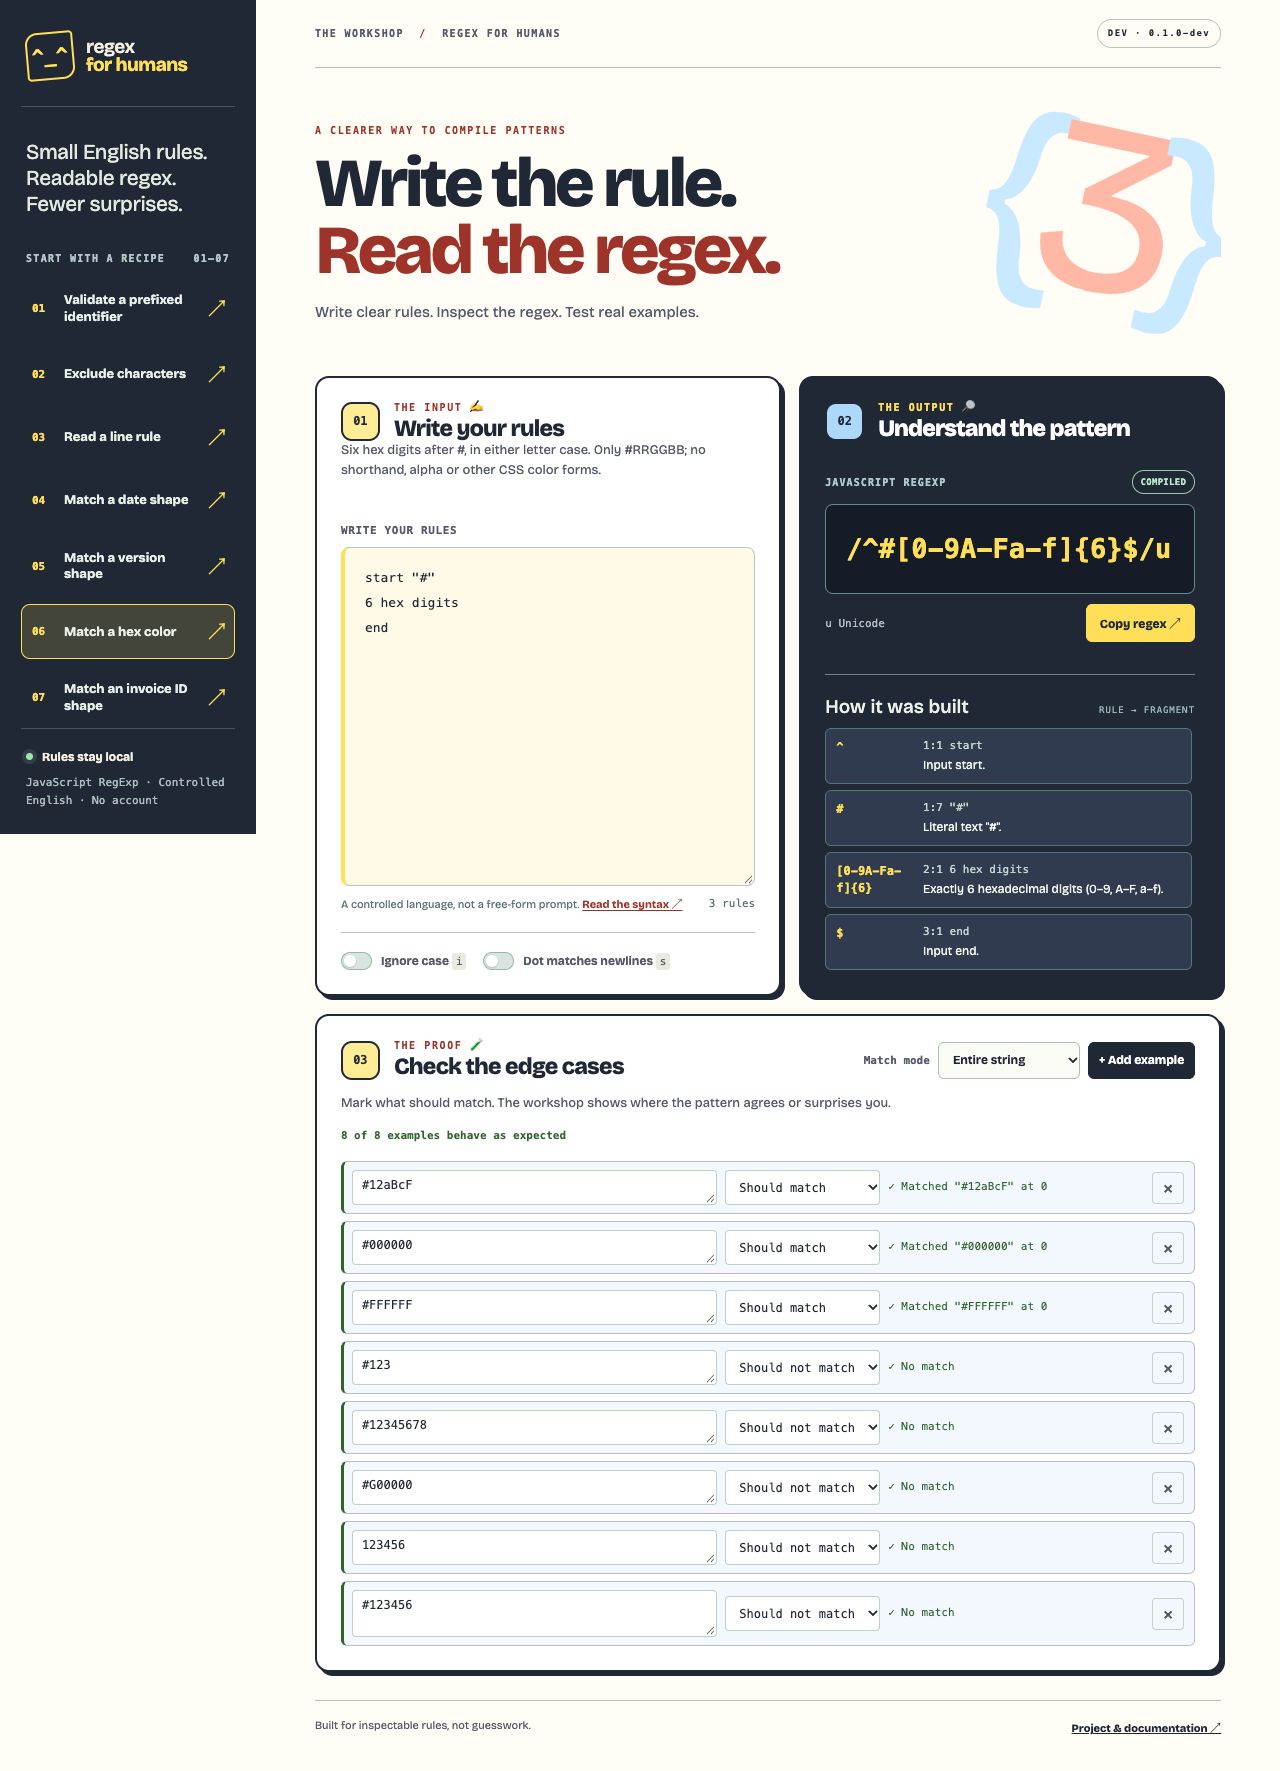
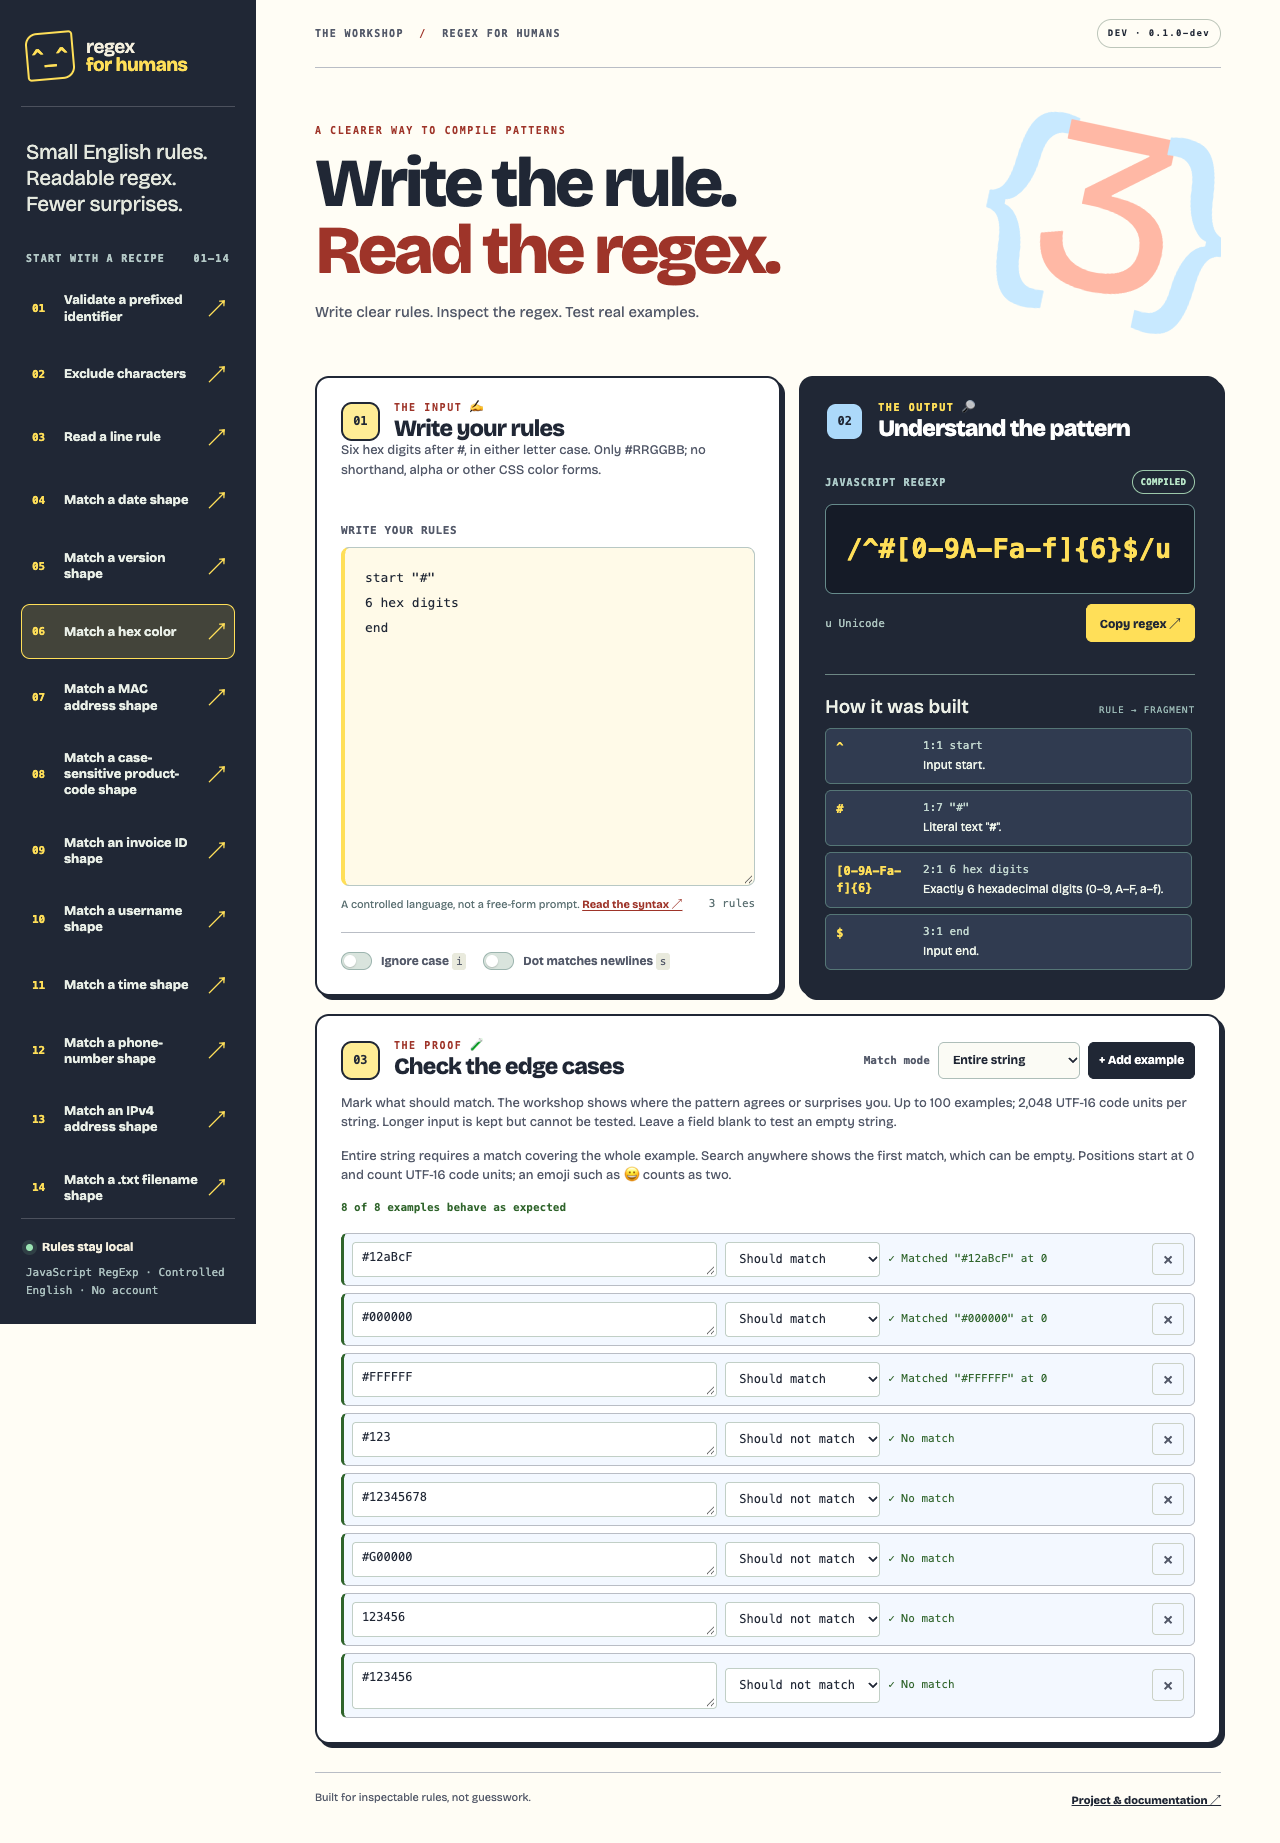
docs: refresh workshop screenshots

diff --git a/site/index.html b/site/index.html
@@ -85,7 +85,7 @@ end</code></pre></div>
     </section>
     <section class="workshop-section section" aria-labelledby="workshop-title">
       <div class="workshop-copy"><p class="eyebrow">YOUR NEW REGEX SANDBOX</p><h2 id="workshop-title">Poke it.<br>Break it.<br><span class="workshop-underline">Understand it.</span></h2><p>Live output, explanations, helpful error positions, and examples you can edit. All in your browser.</p><a class="button primary" href="./workshop/">Take it for a spin <span aria-hidden="true">↗</span></a><p class="local-note"><span aria-hidden="true">🔒</span> Rules and examples stay in your browser.</p></div>
-      <a class="workshop-preview" href="./workshop/" aria-label="Open the interactive workshop"><div class="preview-bar" aria-hidden="true"><span>● ● ●</span><span>THE WORKSHOP / A REAL SCREENSHOT</span></div><img src="./assets/workshop-preview.png?v=86a0caaaef46" alt="Regex For Humans workshop with editable rules, a generated regex, explanations, and passing examples." loading="lazy" width="1280" height="1519"></a>
+      <a class="workshop-preview" href="./workshop/" aria-label="Open the interactive workshop"><div class="preview-bar" aria-hidden="true"><span>● ● ●</span><span>THE WORKSHOP / A REAL SCREENSHOT</span></div><img src="./assets/workshop-preview.png?v=34dd6038942f" alt="Regex For Humans workshop with fourteen editable recipes, generated regex, explanations, and passing examples." loading="lazy" width="1280" height="1591"></a>
     </section>
     <section class="language-section section" id="language" aria-labelledby="language-title">
       <div class="language-intro"><p class="eyebrow">THE POCKET CHEAT SHEET</p><h2 id="language-title">A few words.<br>A lot less squinting. <span aria-hidden="true">👀</span></h2><p>A small, fixed English vocabulary. Every supported instruction has an exact meaning.</p><a class="text-link" href="./workshop/web/language.html">Read the full syntax guide ↗</a><p class="scope-note">JavaScript RegExp only. Free-form English, raw regex, groups, alternation, and lookaround aren't part of this language.</p></div>

diff --git a/test/site/landing.spec.js b/test/site/landing.spec.js
@@ -8,6 +8,15 @@ const stylesheetVersion = createHash("sha256")
   .update(readFileSync(new URL("../../site/styles.css", import.meta.url)))
   .digest("hex")
   .slice(0, 12);
+const workshopPreview = readFileSync(
+  new URL("../../site/assets/workshop-preview.png", import.meta.url),
+);
+const workshopPreviewVersion = createHash("sha256")
+  .update(workshopPreview)
+  .digest("hex")
+  .slice(0, 12);
+const workshopPreviewWidth = workshopPreview.readUInt32BE(16);
+const workshopPreviewHeight = workshopPreview.readUInt32BE(20);
 
 test("homepage requests its current stylesheet and bypasses an obsolete cached style", async ({
   page,
@@ -78,6 +87,24 @@ test("homepage exposes a working, dimensioned social preview", async ({ page }) 
   const bytes = await imageResponse.body();
   expect(bytes.readUInt32BE(16)).toBe(1200);
   expect(bytes.readUInt32BE(20)).toBe(630);
+});
+
+test("homepage uses the current, dimensioned workshop screenshot", async ({ page }) => {
+  await page.goto("/");
+  const image = page.locator(".workshop-preview img");
+  await expect(image).toHaveAttribute(
+    "src",
+    `./assets/workshop-preview.png?v=${workshopPreviewVersion}`,
+  );
+  await expect(image).toHaveAttribute("width", String(workshopPreviewWidth));
+  await expect(image).toHaveAttribute("height", String(workshopPreviewHeight));
+  await image.scrollIntoViewIfNeeded();
+  await expect
+    .poll(() => image.evaluate((element) => element.naturalWidth))
+    .toBe(workshopPreviewWidth);
+  await expect
+    .poll(() => image.evaluate((element) => element.naturalHeight))
+    .toBe(workshopPreviewHeight);
 });
 
 test("workshop and syntax guide expose their own canonical social previews", async ({ page }) => {

diff --git a/media/screenshots/README.md b/media/screenshots/README.md
@@ -1,15 +1,15 @@
 # Screenshot evidence
 
-These are full-page Chrome captures of the local static workshop from this source tree on 30 September 2026, after `npm run verify` passed. Build fingerprint: `ddf21013587c`; visible version: `DEV · 0.1.0-dev`. The build was served from `site/` at `http://127.0.0.1:4191/workshop/`. No UI elements or results were composited or edited. The Bricolage Grotesque font is hosted locally and distributed with its SIL Open Font License in `web/assets/OFL.txt` and `site/assets/fonts/OFL.txt`.
+These are full-page Chrome captures of the local static workshop from this source tree on 1 October 2026. The full local verification passed at source commit `3347541`; the updated homepage and workshop passed all 54 desktop/mobile site tests after documentation updates. Build fingerprint: `c3ba95364088`; visible version: `DEV · 0.1.0-dev`. The build was served from `site/` at `http://127.0.0.1:4192/workshop/`. No UI elements or results were composited or edited. The Bricolage Grotesque font is hosted locally and distributed with its SIL Open Font License in `web/assets/OFL.txt` and `site/assets/fonts/OFL.txt`.
 
-The README desktop and mobile captures show the `hex-color` recipe: `start "#"`, `6 hex digits`, `end`. The generated regex is `/^#[0-9A-Fa-f]{6}$/u`; all eight example checks pass. The desktop sidebar lists seven recipes; the mobile recipe bar scrolls. Both captures show the selected recipe's limits beside its rules.
+The README desktop and mobile captures show the `hex-color` recipe: `start "#"`, `6 hex digits`, `end`. The generated regex is `/^#[0-9A-Fa-f]{6}$/u`; all eight example checks pass. The desktop sidebar lists all fourteen recipes; the mobile recipe bar scrolls. Both captures show the selected recipe's limits beside its rules.
 
 The homepage preview is a separate capture of `prefixed-identifier`, with `/^ABC\d{3}$/u` and all four example checks passing.
 
 | File | Viewport | Pixels | Size | SHA-256 |
 | --- | --- | --- | --- | --- |
[6 lines of base64/hex data omitted]
 
 These are local development captures, not stable-release or human usability evidence. Re-capture after the remaining UX reviews before closing roadmap task 4.2.

diff --git a/README.md b/README.md
@@ -55,12 +55,12 @@ A small, **fixed vocabulary**, with an exact meaning for every instruction. The 
 
 Your rules and examples stay in the browser. No account, AI interpretation, or application backend.
 
-[![Real desktop workshop showing editable rules, generated regex, explanations, and passing example checks](https://raw.githubusercontent.com/OthmaneBlial/Regex-For-Humans/main/media/screenshots/workshop-desktop-dev.png?v=0aa7a9f27078)](https://othmaneblial.github.io/Regex-For-Humans/workshop/)
+[![Real desktop workshop showing editable rules, generated regex, explanations, and passing example checks](https://raw.githubusercontent.com/OthmaneBlial/Regex-For-Humans/main/media/screenshots/workshop-desktop-dev.png?v=89bc7db9875a)](https://othmaneblial.github.io/Regex-For-Humans/workshop/)
 
 <details>
 <summary>📱 See the mobile workshop</summary>
 
-![Mobile view of the Regex For Humans workshop](https://raw.githubusercontent.com/OthmaneBlial/Regex-For-Humans/main/media/screenshots/workshop-mobile-dev.png?v=68866e560029)
+![Mobile view of the Regex For Humans workshop](https://raw.githubusercontent.com/OthmaneBlial/Regex-For-Humans/main/media/screenshots/workshop-mobile-dev.png?v=8f26739ed284)
 
 </details>
 
